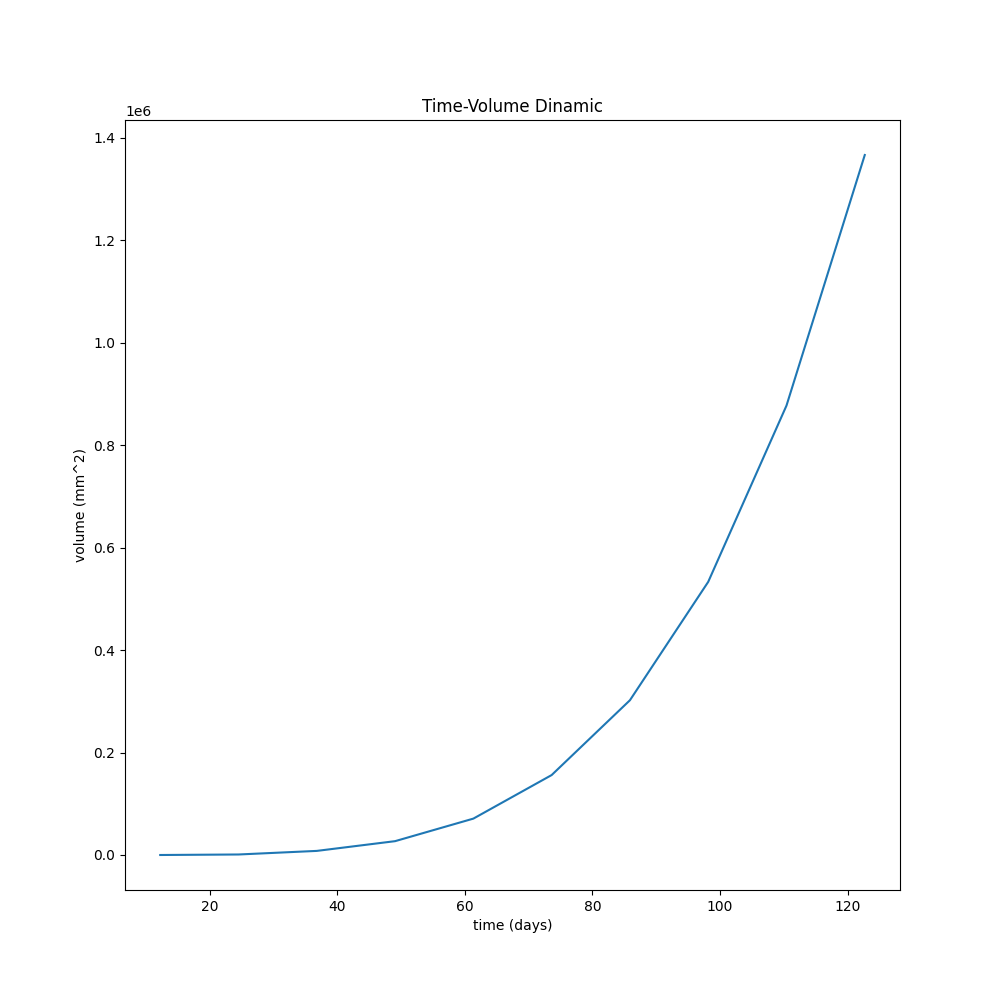
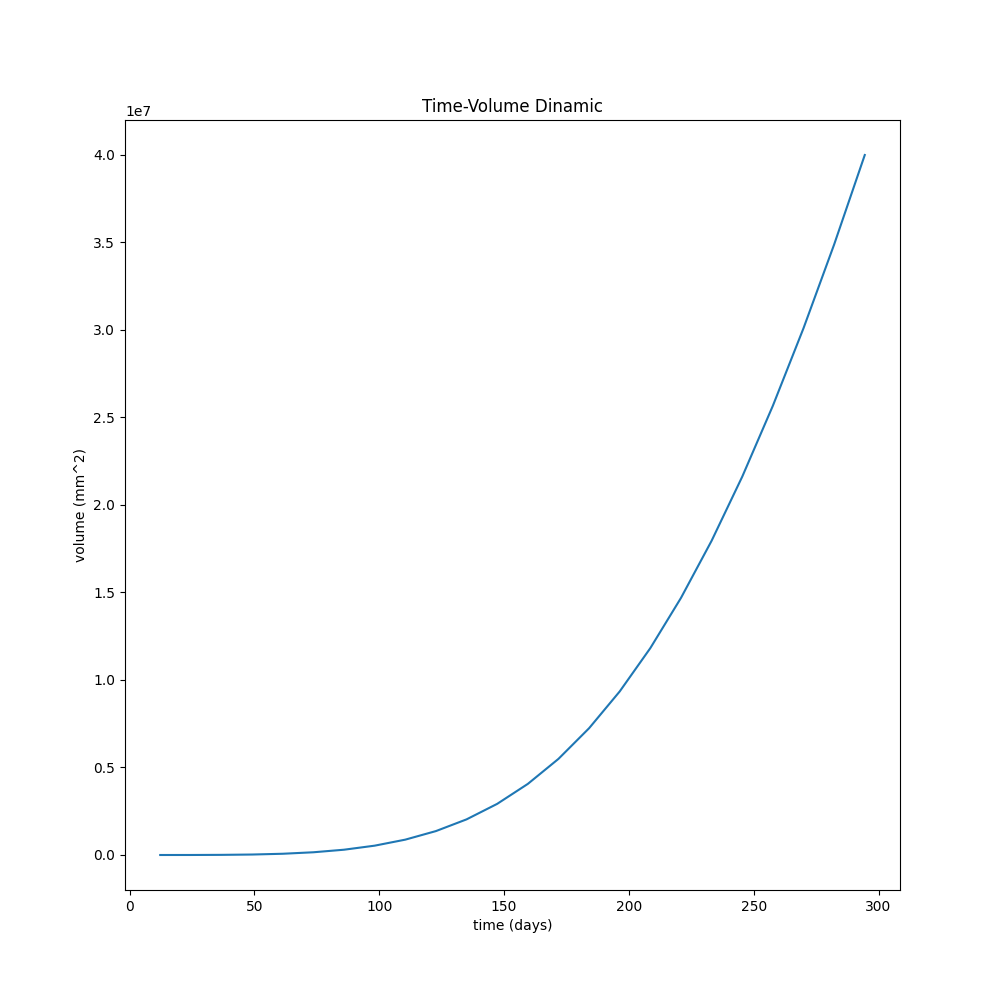
change in output data (img) to see it over a whole period of time

diff --git a/NotLinearCancerModel/ActionDataFile.py b/NotLinearCancerModel/ActionDataFile.py
@@ -1,19 +1,19 @@
 
-def writeTimeValueIntoFile(type, number, timeValue):
-
-    with open(f"PredictData/PersonalPatients/{type}/timeValue/txt/{number}{type}.txt", "w") as file:
+def writeTimeValueIntoFile(type, number, timeValue, path = "PredictData/PersonalPatients/"):
+    path = path + str(type) + "/timeValue/txt/" + str(number) + str(type) + ".txt"
+    with open(path, "w") as file:
         for i in range(len(timeValue[0])):
             file.write(f"{timeValue[0][i]}\t{timeValue[1][i]}\n".encode('utf-8').decode('utf-8'))
 
 
-def writeDataIntoFile(type, number, xyzc):
-
-    with open(f"PredictData/PersonalPatients/{type}/txt/{number}{type}.txt", "w") as file:
+def writeDataIntoFile(type, number, xyzc, path = "PredictData/PersonalPatients/"):
+    path = "PredictData/PersonalPatients/" + str(type) + "/txt/" + str(number) + str(type) + ".txt"
+    with open(path, "w") as file:
         for i in range(len(xyzc[0])):
             file.write(f"{xyzc[0][i]}\t{xyzc[1][i]}\t{xyzc[2][i]}\t{xyzc[3][i]}\n".encode('utf-8').decode('utf-8'))
 
 
-def getDataFromFile(type, number, stepX=10, stepY=10, stepZ=10):
+def getDataFromFile(type, number, stepX=10, stepY=10, stepZ=10, path = "D:/VolSU/НИР/ScienceArticle/NotLinearCancerModel/NotLinearCancerModel/dataTumor/PredictData/PersonalPatients/"):
     """
     Get cancer data from file
 
@@ -25,16 +25,18 @@ def getDataFromFile(type, number, stepX=10, stepY=10, stepZ=10):
     stepX -- X-axis steep
     stepY -- Y-axis steep
     stepZ -- Z-axis steep
+    path -- path to directory file
 
     Return:
     Array[X-axis coordinates, Y-axis steep, Z-axis steep, degree of cancer damage (density)]
     """
 
+    path = path + str(type) + "/txt/" + str(number) + str(type) + ".txt"
     valuesX = []
     valuesY = []
     valuesZ = []
     valuesC = []
-    with open(f"D:/VolSU/НИР/ScienceArticle/NotLinearCancerModel/NotLinearCancerModel/dataTumor/PredictData/PersonalPatients/{type}/txt/{number}{type}.txt", "r") as file:
+    with open(path, "r") as file:
     # with open(f"../dataTumor/ModelData/personalPatients/poly3current/{type}/txt/{number}{type}.txt", "r") as file:
     # with open(f"'../dataTumor/ModelData/personalPatients/poly3current/Diameter/txt/1Diameter.txt'", "r") as file:
         i = 0
@@ -78,21 +80,30 @@ def getDataFromFile(type, number, stepX=10, stepY=10, stepZ=10):
     writeDataIntoFile(type, number, [valuesX2, valuesY2, valuesZ2, valuesC2])
     return [valuesX2, valuesY2, valuesZ2, valuesC2]
 
-def getTimeValueFromFile(type, number, stepX=10, stepY=10, stepZ=10):
+
+def getTimeValueFromFile(type, number, stepX=10, stepY=10, stepZ=10, path = "D:/VolSU/НИР/ScienceArticle/NotLinearCancerModel/NotLinearCancerModel/dataTumor/PredictData/PersonalPatients/"):
     """
     Get time, cancer-value (volume) from file
+
 
     Positional arguments:
     type -- data type (Volume or Diameter)
     number -- patient number
 
+    Keywords argiments:
+    stepX -- X-axis steep
+    stepY -- Y-axis steep
+    stepZ -- Z-axis steep
+    path -- path to directory file
+
     Return:
     Array[time-values, volumeCancer-values]
     """
 
+    path = path + str(type) + "/timeValue/txt/" + str(number) + str(type) + ".txt"
     valuesTime = []
     valuesCancer = []
-    with open(f"D:/VolSU/НИР/ScienceArticle/NotLinearCancerModel/NotLinearCancerModel/dataTumor/PredictData/PersonalPatients/{type}/timeValue/txt/{number}{type}.txt", "r") as file:
+    with open(path, "r") as file:
     # with open(f"../dataTumor/ModelData/personalPatients/poly3current/{type}/txt/{number}{type}.txt", "r") as file:
     # with open(f"'../dataTumor/ModelData/personalPatients/poly3current/Diameter/txt/1Diameter.txt'", "r") as file:
         for line in file.readlines():
@@ -111,7 +122,8 @@ def getTimeValueFromFile(type, number, stepX=10, stepY=10, stepZ=10):
         valuesTime2 = []
         valuesCancer2 = []
         for i in range(len(valuesTime)):
-            if valuesTime[i] not in valuesTime2 and valuesTime[i] < 125:
+            # if valuesTime[i] not in valuesTime2 and valuesTime[i] < 125:
+            if valuesTime[i] not in valuesTime2:
                 valuesTime2.append(valuesTime[i])
                 valuesCancer2.append(valuesCancer[i])
         # for i in range(len(valuesTime2)):        
@@ -121,6 +133,9 @@ def getTimeValueFromFile(type, number, stepX=10, stepY=10, stepZ=10):
         # if number == 1:
         #     for i in range(len(valuesTime2)):
         #         print(f"{valuesTime2[i]}\t{valuesCancer2[i]}")
+        # for i in range(len(valuesTime2)):
+        #     print(valuesTime2[i])
+        #     print(valuesCancer2[i])
     writeTimeValueIntoFile(type, number, [valuesTime2, valuesCancer2])
     return [valuesTime2, valuesCancer2]
 

diff --git a/NotLinearCancerModel/OneCancerVolumePlot.py b/NotLinearCancerModel/OneCancerVolumePlot.py
@@ -49,6 +49,5 @@ plt.plot(timeValues, cancerVolume)
 ax.set_title("Time-Volume Dinamic")
 ax.set_xlabel('time (days)')
 ax.set_ylabel('volume (mm^2)')
-plt.show()
+# plt.show()
 fig.savefig(f"D:/VolSU/НИР/ScienceArticle/NotLinearCancerModel/NotLinearCancerModel/dataTumor/PredictData/Any/{type}/timeValue/img/{number}{type}.png")
-print(f"D:/VolSU/НИР/ScienceArticle/NotLinearCancerModel/NotLinearCancerModel/dataTumor/PredictData/Any/{type}/img/{number}{type}.png")
